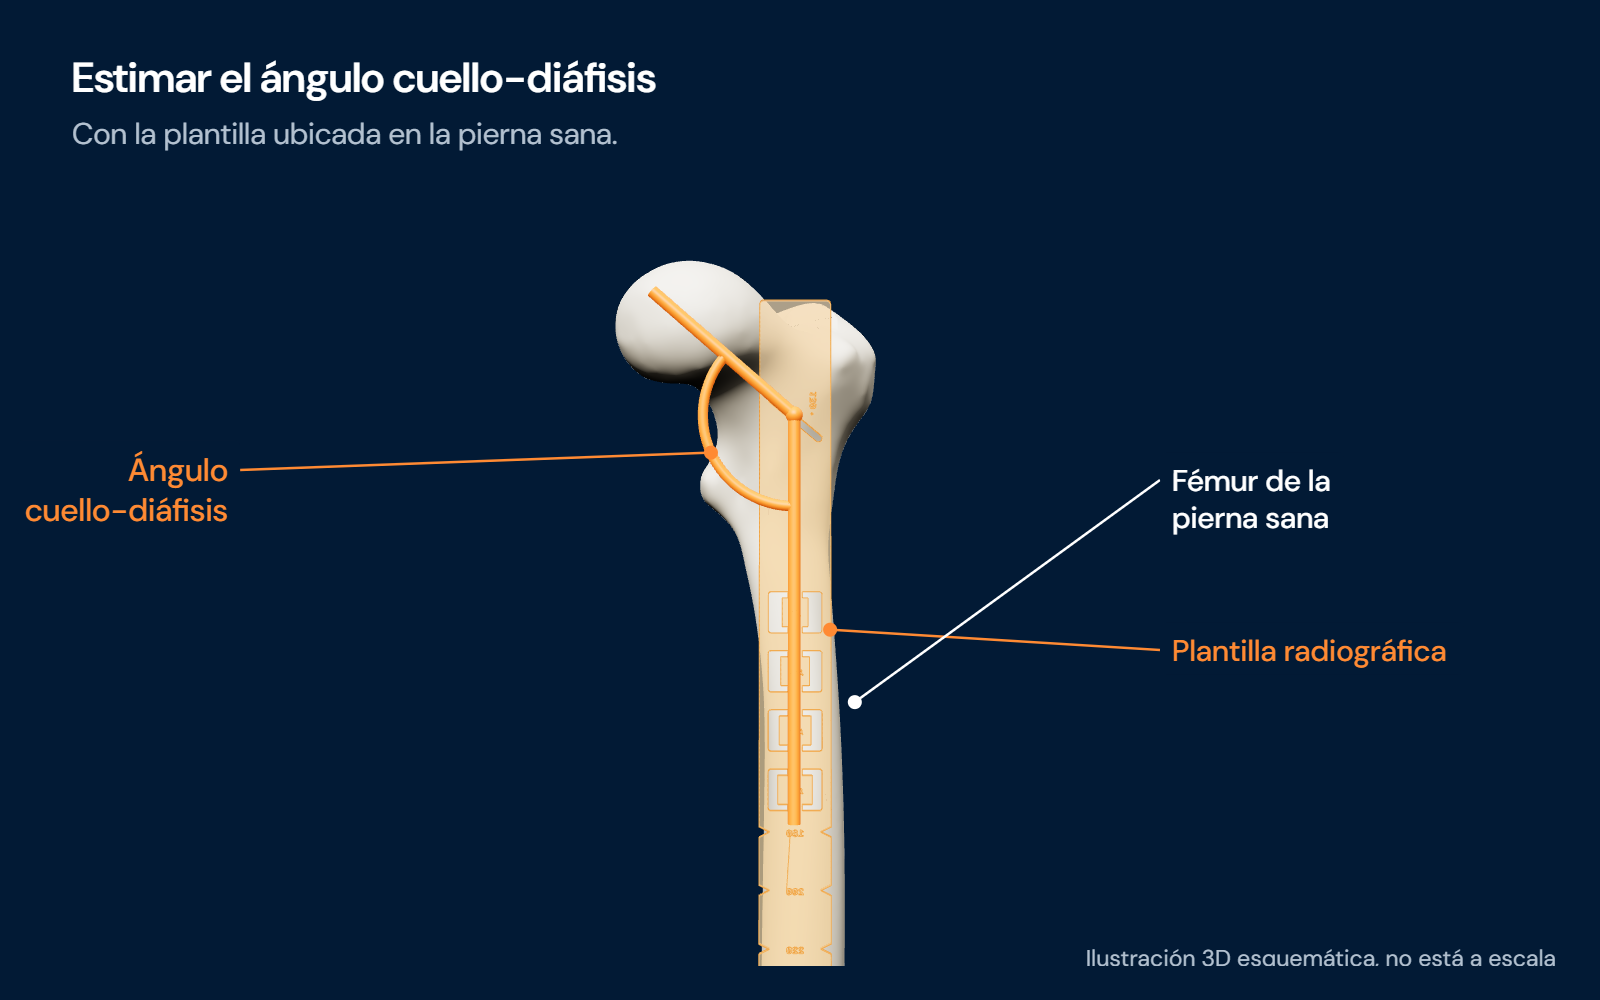
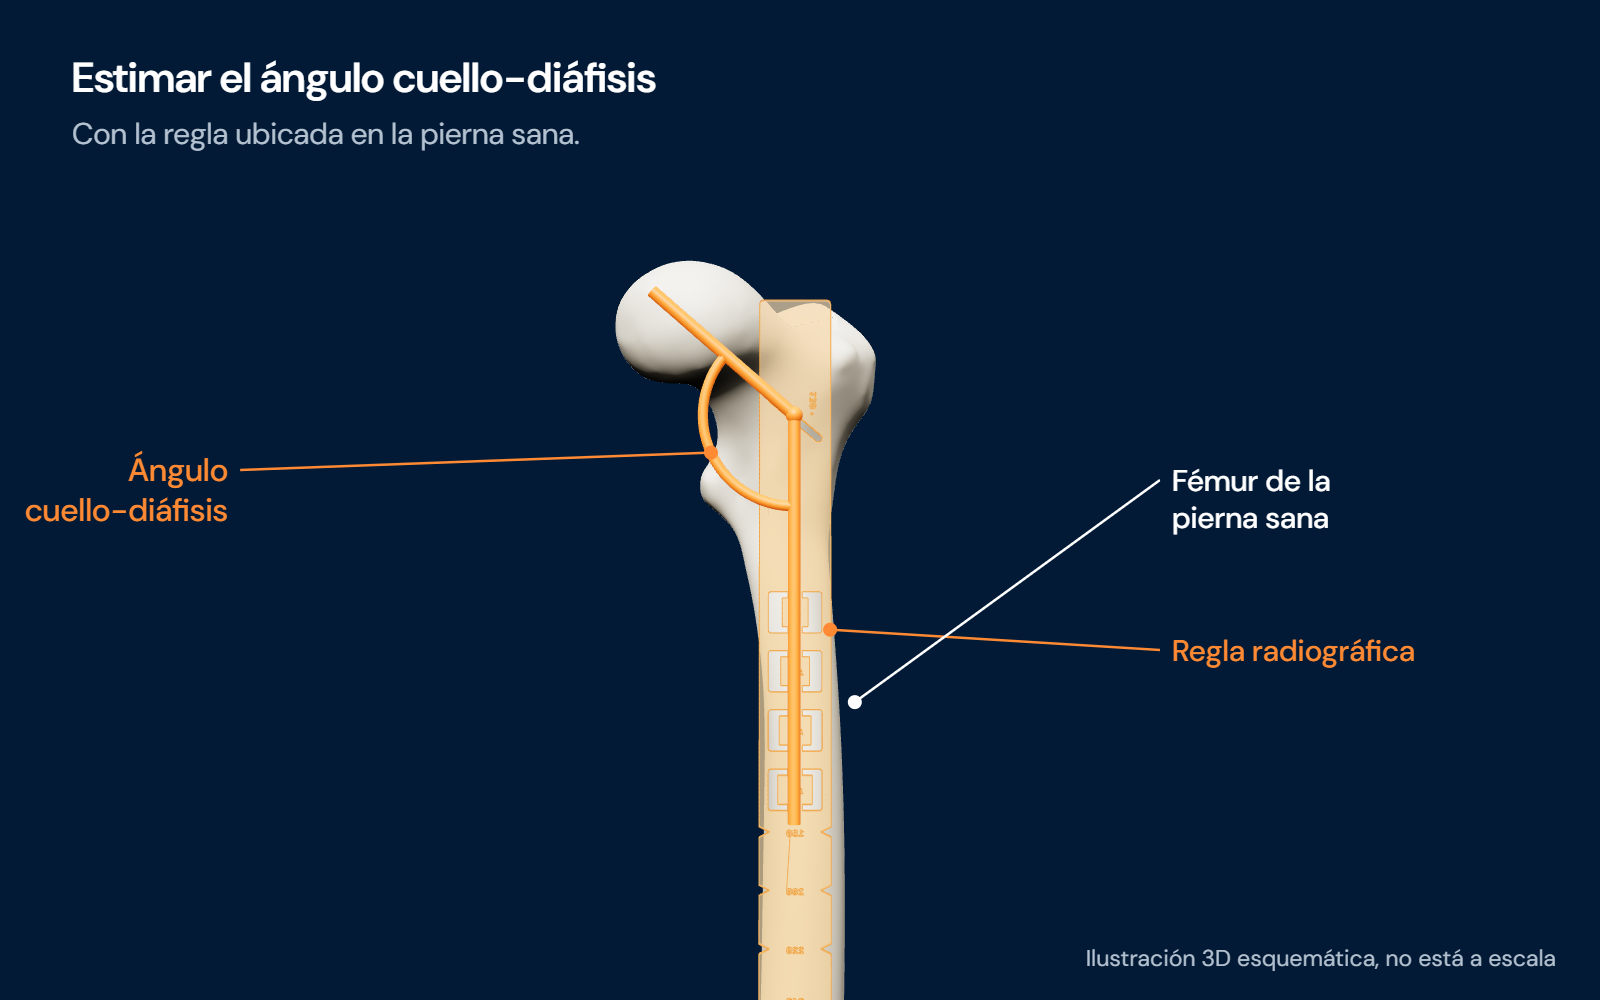
Regla radiográfica, longitud del clavo y canal recto que se desvanece en la imagen 2.3

Changed region(s): [[0.75, 0.62, 0.9062, 0.682], [0.0938, 0.124, 0.375, 0.155], [0.4688, 0.961, 0.5312, 1.0]]

diff --git a/web/ilustraciones3d/escenas.js b/web/ilustraciones3d/escenas.js
@@ -485,6 +485,53 @@ function canal() {
   return shadowed(new THREE.Mesh(canalGeometry, M.canal));
 }
 
+// Canal intramedular esquemático: un tubo recto siguiendo el eje del canal del modelo, de diámetro parejo,
+// cuyas puntas se desvanecen (no se ve dónde empieza ni dónde termina).
+function straightCanal({ radius = 0.0063, through = [-0.00045, 0.02], clippingPlanes } = {}) {
+  const pos = canalGeometry.attributes.position;
+  const bins = new Map();
+  for (let i = 0; i < pos.count; i += 1) {
+    const key = Math.round(pos.getY(i) / 0.01);
+    const b = bins.get(key) || { x: 0, z: 0, y: 0, n: 0 };
+    b.x += pos.getX(i); b.y += pos.getY(i); b.z += pos.getZ(i); b.n += 1;
+    bins.set(key, b);
+  }
+  const centers = [...bins.values()].map((b) => [b.x / b.n, b.y / b.n, b.z / b.n]).sort((a, b) => a[1] - b[1]);
+  // Recta por mínimos cuadrados: x y z en función de y.
+  const n = centers.length;
+  const my = centers.reduce((s, c) => s + c[1], 0) / n;
+  const fit = (k) => {
+    const m = centers.reduce((s, c) => s + c[k], 0) / n;
+    const slope = centers.reduce((s, c) => s + (c[1] - my) * (c[k] - m), 0) / centers.reduce((s, c) => s + (c[1] - my) ** 2, 0);
+    return { m, slope };
+  };
+  const fx = fit(0);
+  const fz = fit(2);
+  const [tx, ty] = through;
+  const at = (y) => new THREE.Vector3(tx + fx.slope * (y - ty), y, fz.m + fz.slope * (y - my));
+  const bottom = at(centers[0][1]);
+  const top = at(centers[n - 1][1]);
+  const length = top.distanceTo(bottom);
+  const geometry = new THREE.CylinderGeometry(radius, radius, length, 48, 1, true);
+  const canvas = document.createElement('canvas');
+  canvas.width = 4;
+  canvas.height = 256;
+  const ctx = canvas.getContext('2d');
+  const grad = ctx.createLinearGradient(0, 0, 0, 256);
+  grad.addColorStop(0, '#000');
+  grad.addColorStop(0.2, '#fff');
+  grad.addColorStop(0.8, '#fff');
+  grad.addColorStop(1, '#000');
+  ctx.fillStyle = grad;
+  ctx.fillRect(0, 0, 4, 256);
+  const alphaMap = new THREE.CanvasTexture(canvas);
+  const material = std(0xc77b4a, 0.6, 0, { transparent: true, alphaMap, depthWrite: false, side: THREE.DoubleSide, ...(clippingPlanes ? { clippingPlanes } : {}) });
+  const mesh = new THREE.Mesh(geometry, material);
+  mesh.position.copy(top).add(bottom).multiplyScalar(0.5);
+  mesh.quaternion.setFromUnitVectors(new THREE.Vector3(0, 1, 0), top.clone().sub(bottom).normalize());
+  return mesh;
+}
+
 const boneDouble = () => std(0xeadfca, 0.58, 0, { side: THREE.DoubleSide });
 const boneGlass = (opacity) => new THREE.MeshPhysicalMaterial({ color: 0xeadfca, roughness: 0.5, transparent: true, opacity, depthWrite: false, side: THREE.DoubleSide });
 
@@ -833,10 +880,10 @@ const ESCENAS = {
     const camera = perspective([0.0, 0.1, 0.62], [0.0, 0.135, 0], { fov: 34 });
     render(scene, camera);
     const p = projector(camera);
-    title('Estimar el ángulo cuello-diáfisis', 'Con la plantilla ubicada en la pierna sana.');
+    title('Estimar el ángulo cuello-diáfisis', 'Con la regla ubicada en la pierna sana.');
     const mid = (start + finish) / 2;
     callout(p([corner[0] + Math.cos(mid) * 0.032, corner[1] + Math.sin(mid) * 0.032, 0.05]), 240, 470, ['Ángulo', 'cuello-diáfisis'], { color: C.orange, anchor: 'end', size: 32 });
-    callout(p([corner[0] + TEMPLATE.halfWidth, corner[1] - 0.075, 0.048]), 1160, 650, 'Plantilla radiográfica', { color: C.orange });
+    callout(p([corner[0] + TEMPLATE.halfWidth, corner[1] - 0.075, 0.048]), 1160, 650, 'Regla radiográfica', { color: C.orange });
     callout(p([0.02, 0.06, 0.02]), 1160, 480, ['Fémur de la', 'pierna sana']);
     note();
   },
@@ -860,9 +907,9 @@ const ESCENAS = {
     const camera = perspective([0.23, 0.0, 1.05], [0.15, 0, 0], { fov: 28 });
     render(scene, camera);
     const p = projector(camera);
-    title('Leer el largo del clavo', 'Plantilla frente al fémur.', 860);
+    title('Leer la longitud del clavo', 'Regla frente al fémur.', 860);
     callout(p([tipX + edge, ENTRY.y - 0.004, 0.057]), 860, 290, ['Parte proximal:', 'en el punto de entrada'], { color: C.orange, size: 32 });
-    callout(p([tipX + edge, (ENTRY.y + tipY) / 2, 0.057]), 860, 510, ['Plantilla radiográfica:', 'se lee el largo del clavo'], { size: 32 });
+    callout(p([tipX + edge, (ENTRY.y + tipY) / 2, 0.057]), 860, 510, ['Regla radiográfica:', 'se lee la longitud del clavo'], { size: 32 });
     callout(p([tipX + edge, tipY + 0.004, 0.057]), 860, 760, ['Parte distal:', 'en la posición esperada'], { color: C.orange, size: 32 });
     note();
   },
@@ -872,8 +919,7 @@ const ESCENAS = {
     floorAndLights(scene, { key: [1, 2, 3], span: 0.7, floorY: -2 });
     const shell = boneGlass(0.32);
     scene.add(femur(shell));
-    const canalMesh = canal();
-    scene.add(canalMesh);
+    scene.add(straightCanal());
     await loadTemplate();
     const level0 = 0.02;
     const plantillaA = radiographicTemplate({ opacity: 0.4 });
@@ -891,7 +937,7 @@ const ESCENAS = {
     const scene2 = new THREE.Scene();
     floorAndLights(scene2, { key: [0.4, 1, 2.5], span: 0.2, floorY: -2 });
     scene2.add(femur(std(0xeadfca, 0.6, 0, { side: THREE.DoubleSide, clippingPlanes: clip })));
-    scene2.add(shadowed(new THREE.Mesh(canalGeometry, std(0xc77b4a, 0.6, 0, { clippingPlanes: clip, side: THREE.DoubleSide }))));
+    scene2.add(straightCanal({ clippingPlanes: clip }));
     const level = 0.02;
     const plantillaB = radiographicTemplate({ opacity: 0.35 });
     plantillaB.position.set(-0.0005, level - TEMPLATE.bracket12Y, 0.03);
@@ -914,8 +960,8 @@ const ESCENAS = {
     add('line', { x1: b[0], y1: a[1], x2: zoom.x, y2: zoom.y, stroke: C.orange, 'stroke-width': 2 });
     add('line', { x1: b[0], y1: b[1], x2: zoom.x, y2: zoom.y + zoom.h, stroke: C.orange, 'stroke-width': 2 });
     add('rect', { x: zoom.x, y: zoom.y, width: zoom.w, height: zoom.h, fill: 'none', stroke: C.line, 'stroke-width': 2, rx: 8 });
-    title('Estimar el diámetro (Φ) del canal', 'Con la plantilla, para elegir el diámetro (Φ) del clavo.', 700);
-    callout(pz([0.0085, level + 0.0068, 0.032]), 1345, 300, ['Corchete de la', 'plantilla (Φ12 mm)'], { color: C.orange, size: 28 });
+    title('Estimar el diámetro (Φ) del canal', null, 700);
+    callout(pz([0.0085, level + 0.0068, 0.032]), 1345, 300, ['Corchete de la', 'regla (Φ12 mm)'], { color: C.orange, size: 28 });
     callout(pz([rightWall, level, 0.012]), 1345, 470, 'Diámetro (Φ)', { color: C.orange, size: 32 });
     callout(pz([-0.0005, level - 0.03, 0.005]), 1345, 690, ['Canal', 'intramedular'], { size: 28 });
     chip(700, 880, 'Clavo principal: Φ9,4, Φ10, Φ11 o Φ12 mm');
@@ -947,7 +993,7 @@ const ESCENAS = {
     const camera = perspective([0, 0, 1.28], [0.02, 0, 0], { fov: 26 });
     render(scene, camera);
     const p = projector(camera);
-    title('Elegir el largo del clavo');
+    title('Elegir la longitud del clavo');
     const la = p([a + 0.09, LESSER_Y, 0.03]);
     const lb = p([b + 0.09, LESSER_Y, 0.03]);
     label(la[0], la[1] + 8, ['Trocánter', 'menor'], { size: 25, color: C.muted, plate: true });
